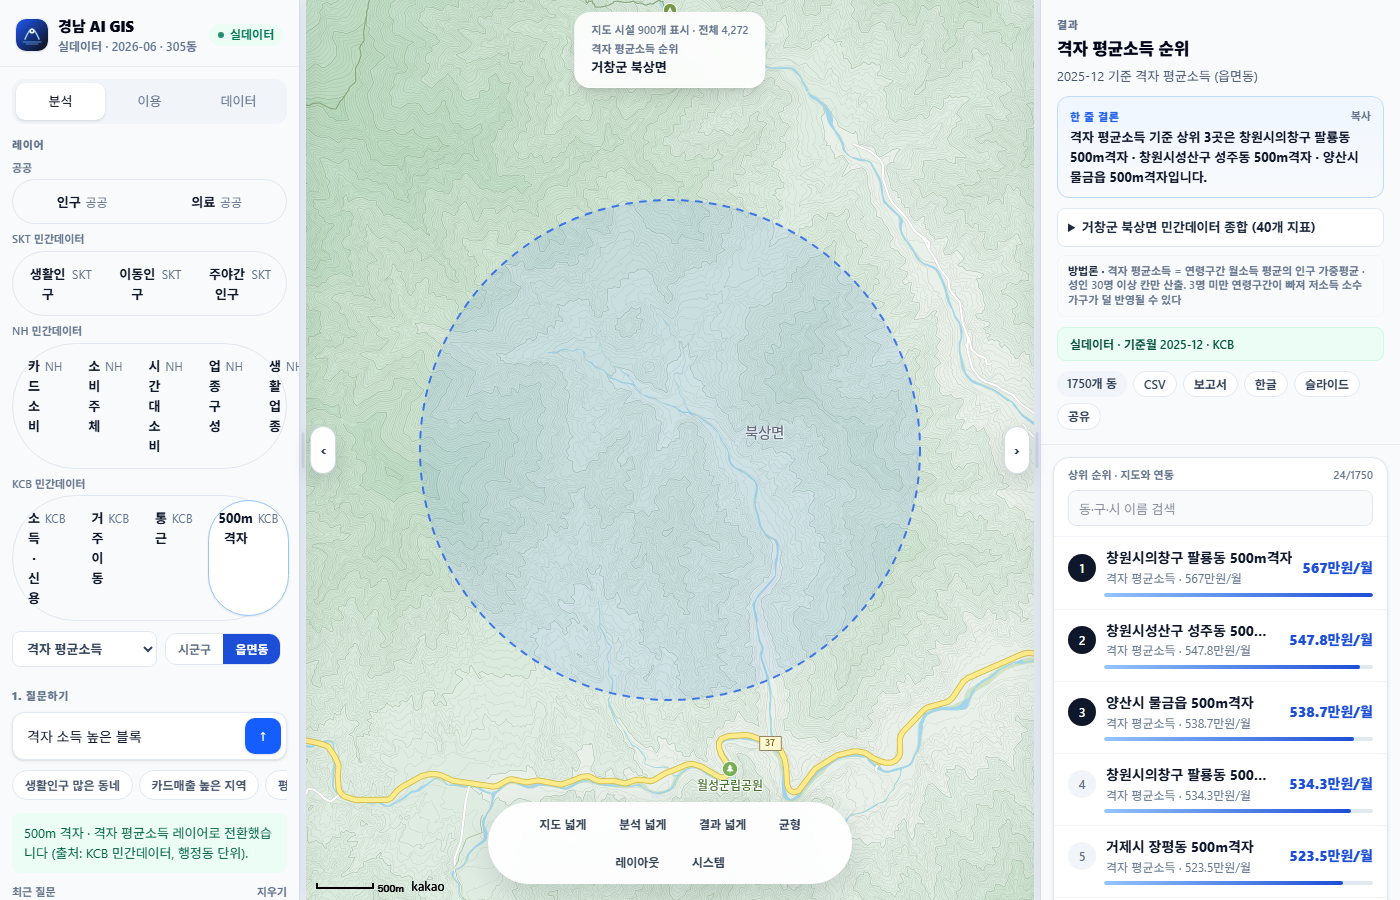
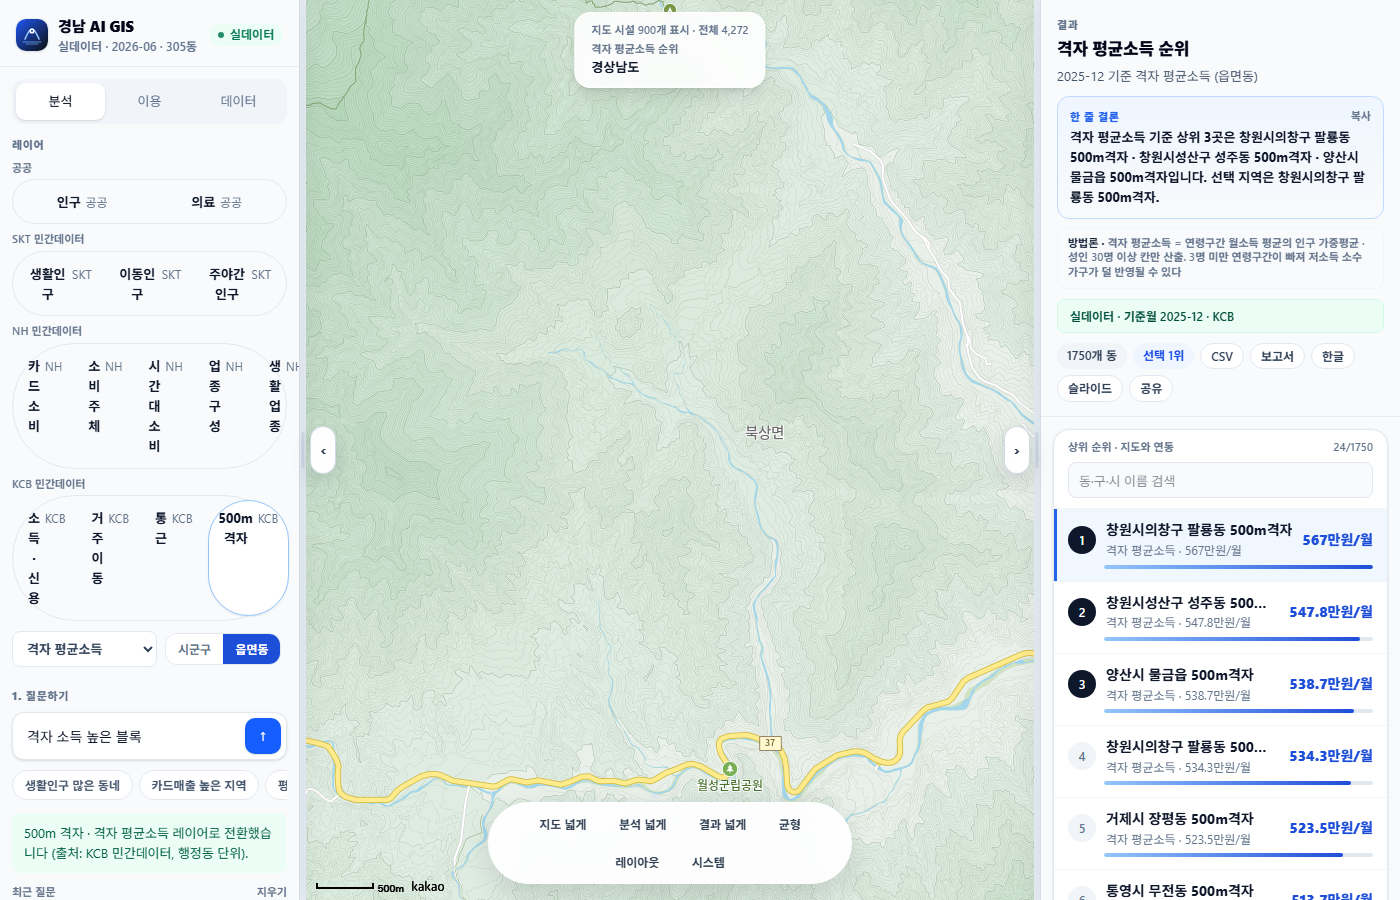
fix(map): 격자 칸을 골라도 지도가 따라가지 않던 문제
앞 커밋에서 선택은 격자 1위로 옮겨졌는데 지도는 그대로였다. 화면을 찍어 확인했다 —
결론과 순위는 창원시의창구 팔룡동인데 지도는 거창군 북상면 산속을 비추고 있었다.

지도가 선택 지역을 스냅샷의 읍면동 목록에서만 찾기 때문이다. 격자 코드("gx_gy")는
거기 없으니 아무것도 못 찾고 시점을 옮기지 않는다. 못 찾으면 경계 폴리곤에서 중심을
구해 옮기게 했다. 반경 원은 의료 분석용 표시라 이 경우엔 그리지 않는다.

diff --git a/src/components/copilot/kakao-map.tsx b/src/components/copilot/kakao-map.tsx
@@ -273,6 +273,30 @@ export function KakaoMap({
     }
 
     const selected = regions.find((region) => region.adm_cd2 === selectedRegionCode);
+    if (!selected && selectedRegionCode) {
+      /*
+       * 격자처럼 스냅샷 지역 목록에 없는 코드는 여기서 못 찾는다. 그러면 지도가 이전
+       * 위치에 그대로 머물러, 격자 레이어로 바꿨는데 화면은 엉뚱한 산속을 비춘다
+       * (prod에서 실제로 그랬다). 경계 폴리곤에서 중심을 구해 옮겨 준다.
+       * 반경 원은 의료 분석용 표시라 이 경우엔 그리지 않는다.
+       */
+      const feature = boundary.features.find((item) => item.properties.adm_cd2 === selectedRegionCode);
+      if (feature) {
+        let minLng = Infinity, minLat = Infinity, maxLng = -Infinity, maxLat = -Infinity;
+        const walk = (coords: unknown): void => {
+          if (typeof (coords as number[])[0] === "number") {
+            const [lng, lat] = coords as number[];
+            minLng = Math.min(minLng, lng); maxLng = Math.max(maxLng, lng);
+            minLat = Math.min(minLat, lat); maxLat = Math.max(maxLat, lat);
+            return;
+          }
+          for (const part of coords as unknown[]) walk(part);
+        };
+        walk(feature.geometry.coordinates);
+        map.setCenter(new maps.LatLng((minLat + maxLat) / 2, (minLng + maxLng) / 2));
+        map.setLevel?.(5);
+      }
+    }
     if (selected) {
       const circle = new maps.Circle({
         center: new maps.LatLng(
